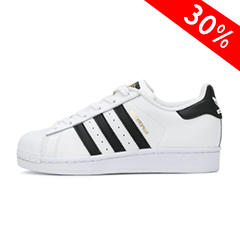
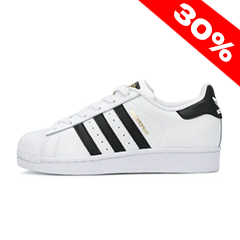
footer

Changed region(s): [[0.5833, 0.0, 1.0, 0.3792]]

diff --git a/index.html b/index.html
@@ -9,6 +9,8 @@
 
     <link href="https://cdn.jsdelivr.net/npm/bootstrap@5.3.3/dist/css/bootstrap.min.css" rel="stylesheet" integrity="sha384-QWTKZyjpPEjISv5WaRU9OFeRpok6YctnYmDr5pNlyT2bRjXh0JMhjY6hW+ALEwIH" crossorigin="anonymous">
 
+    <script src="https://kit.fontawesome.com/eb496ab1a0.js" crossorigin="anonymous"></script>
+
     <link rel="stylesheet" href="./css/style.css">
     <title>Sneaker Haze</title>
 </head>
@@ -44,10 +46,6 @@
           </nav>
     </header>
     <main>
-        <div class="marcas">
-            <h2 class="titulosProd">MARCAS</h2>
-        </div>
-
         <section>
           <div id="carouselExampleIndicators" class="carousel slide carouselIndex carousel-dark">
             <div class="carousel-indicators">
@@ -57,13 +55,13 @@
             </div>
             <div class="carousel-inner">
               <div class="carousel-item active">
-                <img src="./img/adidas1.png" class="d-block w-100" alt="...">
+                <img src="./img/adidas30off.png" class="d-block w-100" alt="...">
               </div>
               <div class="carousel-item">
-                <img src="./img/Jordan1purple.png" class="d-block w-100" alt="...">
+                <img src="./img/jordan25off.png" class="d-block w-100" alt="...">
               </div>
               <div class="carousel-item">
-                <img src="./img/nike2.png" class="d-block w-100" alt="...">
+                <img src="./img/nike20off.png" class="d-block w-100" alt="...">
               </div>
             </div>
             <button class="carousel-control-prev flechaCarousel" type="button" data-bs-target="#carouselExampleIndicators" data-bs-slide="prev">
@@ -76,7 +74,6 @@
             </button>
           </div>
         </section>
-
         <article>
             <a target="_parent" href="./pages/adidas.html"><div class="cardMarcas">
                 <h2>Adidas</h2>
@@ -92,11 +89,35 @@
             </div></a>
         </article> 
 
-        <footer>
-            <p>Todos los derechos reservados©</p>
-        </footer>
+        <footer class="pie-pagina">
+          <div class="grupo-1">
+              <div class="box">
+                  <figure>
+                      <a href="#">
+                          <img src="./img/logo.png" alt="Logo de SLee Dw">
+                      </a>
+                  </figure>
+              </div>
+              <div class="box">
+                  <h2 class="h2Footer">¿QUIENES SOMOS?</h2>
+                  <p>Lorem ipsum dolor sit amet consectetur adipisicing elit. Odio, ipsa?</p>
+                  <p>Lorem ipsum dolor sit amet consectetur adipisicing elit. Odio, ipsa?</p>
+              </div>
+              <div class="box">
+                  <h2 class="h2Footer">SEGUINOS</h2>
+                  <div class="red-social">
+                      <a href="https://www.instagram.com/" class="fa fa-instagram"></a>
+                      <a href="https://www.youtube.com/" class="fa fa-youtube"></a>
+                  </div>
+              </div>
+          </div>
+          <div class="footerBajo">
+              <p>Todos los derechos reservados©</p>
+          </div>
+      </footer>
 
         <script src="https://cdn.jsdelivr.net/npm/bootstrap@5.3.3/dist/js/bootstrap.bundle.min.js" integrity="sha384-YvpcrYf0tY3lHB60NNkmXc5s9fDVZLESaAA55NDzOxhy9GkcIdslK1eN7N6jIeHz" crossorigin="anonymous"></script>
+
     </main>
 </body>
 </html>

diff --git a/css/style.css b/css/style.css
@@ -43,6 +43,8 @@ header{
 }
 
 section{
+    margin-top: 25px;
+    margin-bottom: 25px;
     display: flex;
     flex-direction: column;
     text-align: center;
@@ -132,12 +134,68 @@ a{
     color: black;
 }
 
-footer{
-    padding-top: 15px;
-    height: 50px;
+.pie-pagina{
     width: 100%;
-    text-align: center;
     background-color: #DBE2EF;
+}
+.pie-pagina .grupo-1{
+    width: 100%;
+    max-width: 1200px;
+    margin: auto;
+    display:grid;
+    grid-template-columns: repeat(3, 1fr);
+    grid-gap:50px;
+    padding: 45px 0px;
+}
+.pie-pagina .grupo-1 .box figure{
+    width: 100%;
+    height: 100%;
+    display: flex;
+    justify-content: center;
+    align-items: center;
+}
+.pie-pagina .grupo-1 .box figure img{
+    width: 250px;
+}
+.pie-pagina .grupo-1 .box h2{
+    color: black;
+    margin-bottom: 25px;
+    font-size: 20px;
+}
+.pie-pagina .grupo-1 .box p{
+    color: black;
+    margin-bottom: 10px;
+}
+.pie-pagina .grupo-1 .red-social a{
+    display: inline-block;
+    text-decoration: none;
+    width: 45px;
+    height: 45px;
+    line-height: 45px;
+    color: #fff;
+    margin-right: 10px;
+    background-color: black;
+    text-align: center;
+    transition: all 300ms ease;
+}
+.pie-pagina .grupo-1 .red-social a:hover{
+    color: rgb(153, 153, 153);
+}
+.pie-pagina .footerBajo{
+    background-color: black;
+    padding: 15px 10px;
+    text-align: center;
+    color: #fff;
+}
+.pie-pagina .footerBajo{
+    font-size: 15px;
+}
+
+.footerRedes{
+    display: flex;
+    justify-content: center;
+    height: 50px;
+    width: 50px;
 }
 
 .section1 {
@@ -188,8 +246,10 @@ footer{
 section .carouselIndex{
     margin: auto;
     width: 100%;
-    max-width: 600px;
+    max-width: 1000px;
 }
+
+
 
 
 @media (max-width: 768px){
@@ -217,6 +277,21 @@ section .carouselIndex{
     }
 
     h2{
+        text-align: center;
+    }
+
+    .pie-pagina .grupo-1{
+        width: 90%;
+        grid-template-columns: repeat(1, 1fr);
+        grid-gap:30px;
+        padding: 35px 0px;
+    }
+
+    .box{
+        text-align: center;
+    }
+
+    .h2Footer{
         text-align: center;
     }
 }

diff --git a/pages/productos.html b/pages/productos.html
@@ -9,6 +9,8 @@
 
     <link href="https://cdn.jsdelivr.net/npm/bootstrap@5.3.3/dist/css/bootstrap.min.css" rel="stylesheet" integrity="sha384-QWTKZyjpPEjISv5WaRU9OFeRpok6YctnYmDr5pNlyT2bRjXh0JMhjY6hW+ALEwIH" crossorigin="anonymous">
 
+    <script src="https://kit.fontawesome.com/eb496ab1a0.js" crossorigin="anonymous"></script>
+
     <link rel="stylesheet" href="../css/style.css">
     <title>Sneaker Haze - Productos</title>
 </head>
@@ -100,9 +102,32 @@
                 </div>
             </div>
         </section>
-        <footer>
-            <p>Todos los derechos reservados©</p>
-        </footer>
+        <footer class="pie-pagina">
+            <div class="grupo-1">
+                <div class="box">
+                    <figure>
+                        <a href="#">
+                            <img src="../img/logo.png" alt="Logo SneakerHaze">
+                        </a>
+                    </figure>
+                </div>
+                <div class="box">
+                    <h2 class="h2Footer">¿QUIENES SOMOS?</h2>
+                    <p>Lorem ipsum dolor sit amet consectetur adipisicing elit. Odio, ipsa?</p>
+                    <p>Lorem ipsum dolor sit amet consectetur adipisicing elit. Odio, ipsa?</p>
+                </div>
+                <div class="box">
+                    <h2 class="h2Footer">SEGUINOS</h2>
+                    <div class="red-social">
+                        <a href="https://www.instagram.com/" class="fa fa-instagram"></a>
+                        <a href="https://www.youtube.com/" class="fa fa-youtube"></a>
+                    </div>
+                </div>
+            </div>
+            <div class="footerBajo">
+                <p>Todos los derechos reservados©</p>
+            </div>
+          </footer>
 
         <script src="https://cdn.jsdelivr.net/npm/bootstrap@5.3.3/dist/js/bootstrap.bundle.min.js" integrity="sha384-YvpcrYf0tY3lHB60NNkmXc5s9fDVZLESaAA55NDzOxhy9GkcIdslK1eN7N6jIeHz" crossorigin="anonymous"></script>
     </main>

diff --git a/pages/adidas.html b/pages/adidas.html
@@ -9,6 +9,8 @@
 
     <link href="https://cdn.jsdelivr.net/npm/bootstrap@5.3.3/dist/css/bootstrap.min.css" rel="stylesheet" integrity="sha384-QWTKZyjpPEjISv5WaRU9OFeRpok6YctnYmDr5pNlyT2bRjXh0JMhjY6hW+ALEwIH" crossorigin="anonymous">
 
+    <script src="https://kit.fontawesome.com/eb496ab1a0.js" crossorigin="anonymous"></script>
+
     <link rel="stylesheet" href="/css/style.css">
     <title>SneakerHaze - Adidas</title>
 </head>
@@ -64,8 +66,31 @@
                 <p>Descripcion del producto</p>
             </div>
         </section>
-        <footer>
-            <p>Todos los derechos reservados©</p>
+        <footer class="pie-pagina">
+          <div class="grupo-1">
+              <div class="box">
+                  <figure>
+                      <a href="#">
+                          <img src="../img/logo.png" alt="Logo SneakerHaze">
+                      </a>
+                  </figure>
+              </div>
+              <div class="box">
+                  <h2 class="h2Footer">¿QUIENES SOMOS?</h2>
+                  <p>Lorem ipsum dolor sit amet consectetur adipisicing elit. Odio, ipsa?</p>
+                  <p>Lorem ipsum dolor sit amet consectetur adipisicing elit. Odio, ipsa?</p>
+              </div>
+              <div class="box">
+                  <h2 class="h2Footer">SEGUINOS</h2>
+                  <div class="red-social">
+                      <a href="https://www.instagram.com/" class="fa fa-instagram"></a>
+                      <a href="https://www.youtube.com/" class="fa fa-youtube"></a>
+                  </div>
+              </div>
+          </div>
+          <div class="footerBajo">
+              <p>Todos los derechos reservados©</p>
+          </div>
         </footer>
 
         <script src="https://cdn.jsdelivr.net/npm/bootstrap@5.3.3/dist/js/bootstrap.bundle.min.js" integrity="sha384-YvpcrYf0tY3lHB60NNkmXc5s9fDVZLESaAA55NDzOxhy9GkcIdslK1eN7N6jIeHz" crossorigin="anonymous"></script>

diff --git a/pages/jordan.html b/pages/jordan.html
@@ -9,6 +9,8 @@
 
     <link href="https://cdn.jsdelivr.net/npm/bootstrap@5.3.3/dist/css/bootstrap.min.css" rel="stylesheet" integrity="sha384-QWTKZyjpPEjISv5WaRU9OFeRpok6YctnYmDr5pNlyT2bRjXh0JMhjY6hW+ALEwIH" crossorigin="anonymous">
 
+    <script src="https://kit.fontawesome.com/eb496ab1a0.js" crossorigin="anonymous"></script>
+
     <link rel="stylesheet" href="/css/style.css">
     <title>SneakerHaze - Jordan</title>
 </head>
@@ -64,8 +66,31 @@
                 <p>Descripcion del producto</p>
             </div>
         </section>
-        <footer>
-            <p>Todos los derechos reservados©</p>
+        <footer class="pie-pagina">
+          <div class="grupo-1">
+              <div class="box">
+                  <figure>
+                      <a href="#">
+                          <img src="../img/logo.png" alt="Logo SneakerHaze">
+                      </a>
+                  </figure>
+              </div>
+              <div class="box">
+                  <h2 class="h2Footer">¿QUIENES SOMOS?</h2>
+                  <p>Lorem ipsum dolor sit amet consectetur adipisicing elit. Odio, ipsa?</p>
+                  <p>Lorem ipsum dolor sit amet consectetur adipisicing elit. Odio, ipsa?</p>
+              </div>
+              <div class="box">
+                  <h2 class="h2Footer">SEGUINOS</h2>
+                  <div class="red-social">
+                      <a href="https://www.instagram.com/" class="fa fa-instagram"></a>
+                      <a href="https://www.youtube.com/" class="fa fa-youtube"></a>
+                  </div>
+              </div>
+          </div>
+          <div class="footerBajo">
+              <p>Todos los derechos reservados©</p>
+          </div>
         </footer>
 
         <script src="https://cdn.jsdelivr.net/npm/bootstrap@5.3.3/dist/js/bootstrap.bundle.min.js" integrity="sha384-YvpcrYf0tY3lHB60NNkmXc5s9fDVZLESaAA55NDzOxhy9GkcIdslK1eN7N6jIeHz" crossorigin="anonymous"></script>

diff --git a/pages/nike.html b/pages/nike.html
@@ -9,6 +9,8 @@
 
     <link href="https://cdn.jsdelivr.net/npm/bootstrap@5.3.3/dist/css/bootstrap.min.css" rel="stylesheet" integrity="sha384-QWTKZyjpPEjISv5WaRU9OFeRpok6YctnYmDr5pNlyT2bRjXh0JMhjY6hW+ALEwIH" crossorigin="anonymous">
 
+    <script src="https://kit.fontawesome.com/eb496ab1a0.js" crossorigin="anonymous"></script>
+
     <link rel="stylesheet" href="/css/style.css">
     <title>SneakerHaze - Nike</title>
 </head>
@@ -64,8 +66,31 @@
                 <p>Descripcion del producto</p>
             </div>
         </section>
-        <footer>
-            <p>Todos los derechos reservados©</p>
+        <footer class="pie-pagina">
+          <div class="grupo-1">
+              <div class="box">
+                  <figure>
+                      <a href="#">
+                          <img src="../img/logo.png" alt="Logo SneakerHaze">
+                      </a>
+                  </figure>
+              </div>
+              <div class="box">
+                  <h2 class="h2Footer">¿QUIENES SOMOS?</h2>
+                  <p>Lorem ipsum dolor sit amet consectetur adipisicing elit. Odio, ipsa?</p>
+                  <p>Lorem ipsum dolor sit amet consectetur adipisicing elit. Odio, ipsa?</p>
+              </div>
+              <div class="box">
+                  <h2 class="h2Footer">SEGUINOS</h2>
+                  <div class="red-social">
+                      <a href="https://www.instagram.com/" class="fa fa-instagram"></a>
+                      <a href="https://www.youtube.com/" class="fa fa-youtube"></a>
+                  </div>
+              </div>
+          </div>
+          <div class="footerBajo">
+              <p>Todos los derechos reservados©</p>
+          </div>
         </footer>
 
         <script src="https://cdn.jsdelivr.net/npm/bootstrap@5.3.3/dist/js/bootstrap.bundle.min.js" integrity="sha384-YvpcrYf0tY3lHB60NNkmXc5s9fDVZLESaAA55NDzOxhy9GkcIdslK1eN7N6jIeHz" crossorigin="anonymous"></script>
